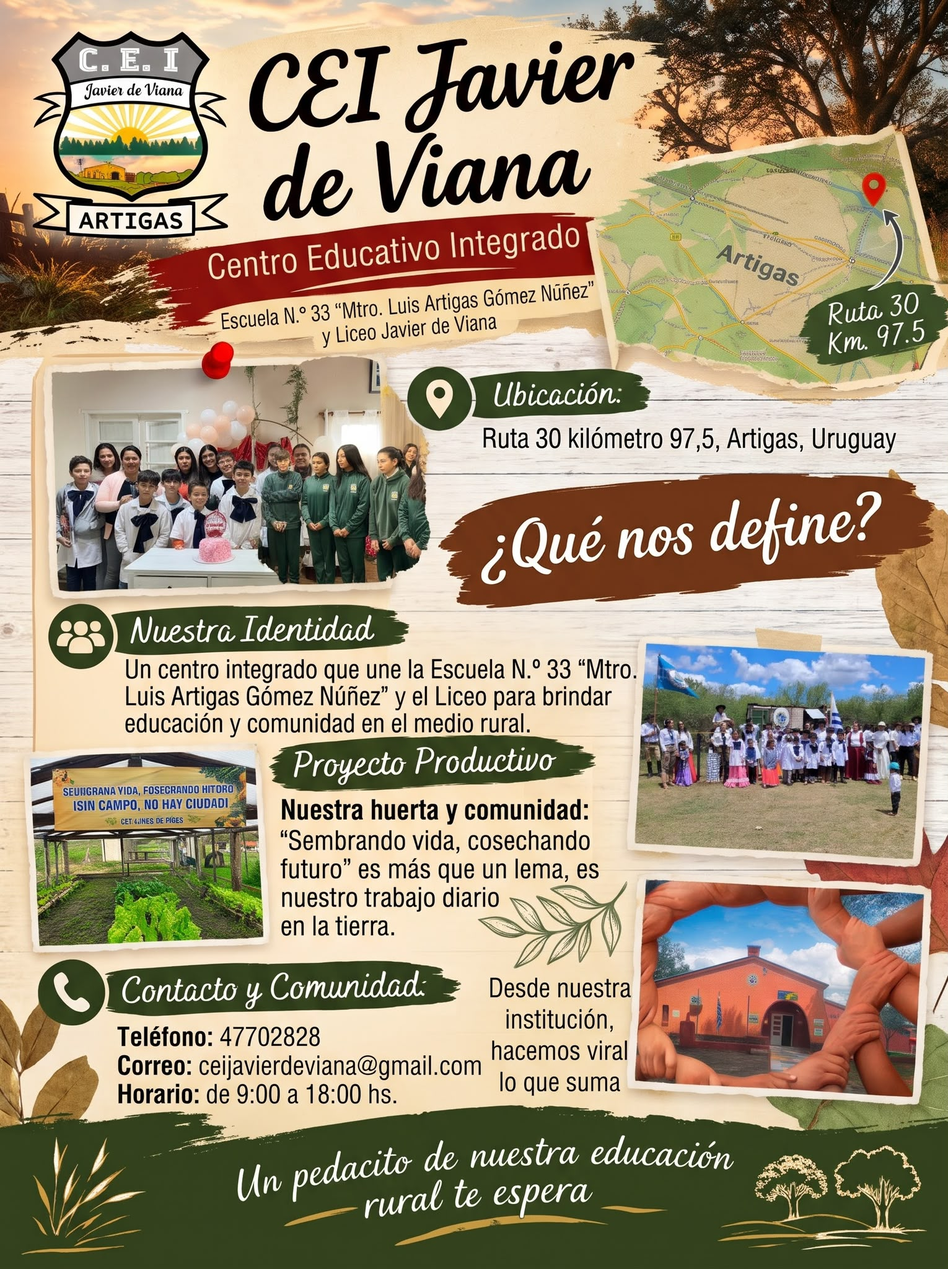
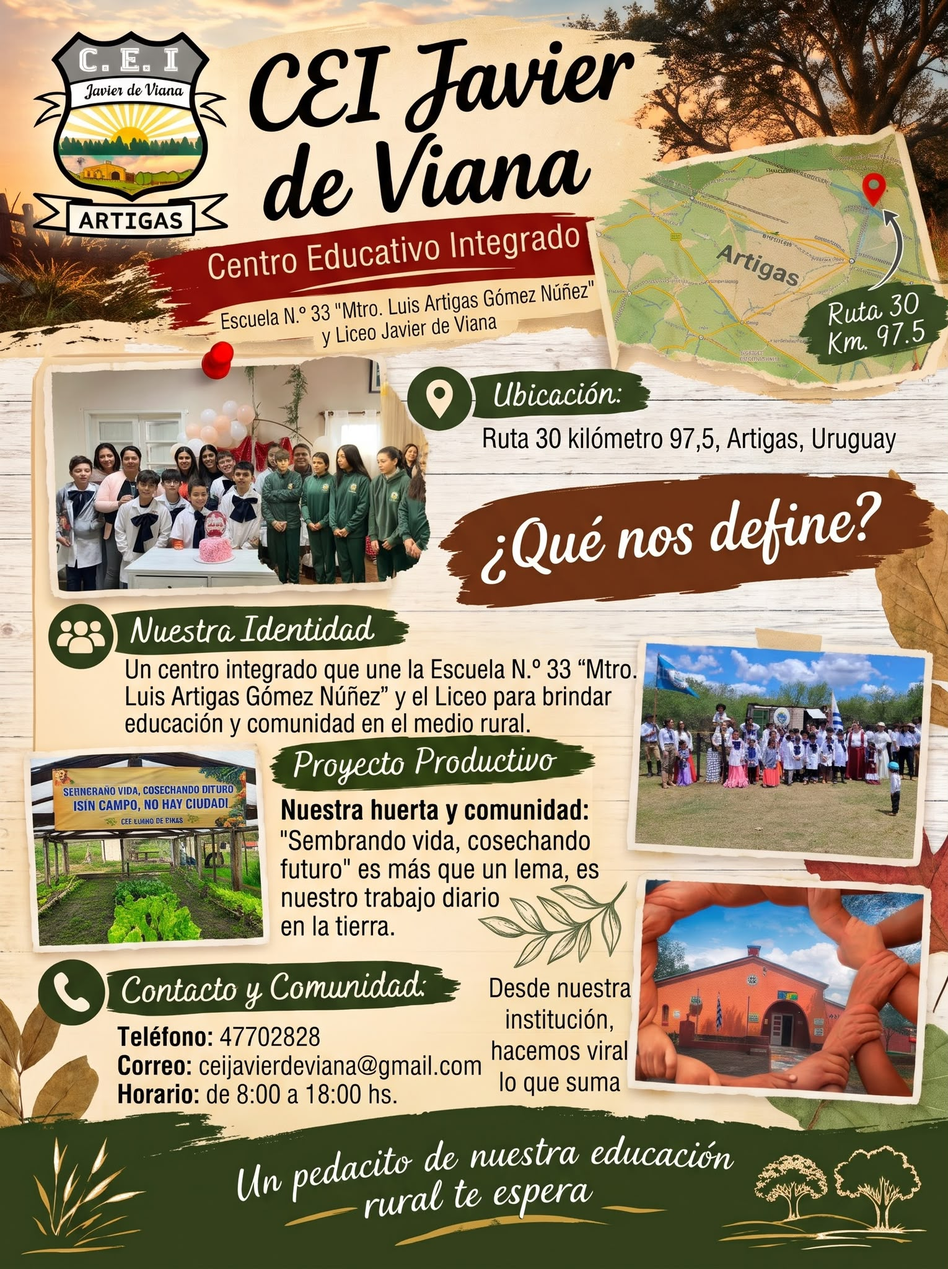
Nueva ficha del CEI y videos verticales juntos
Nueva ficha del CEI y videos verticales juntos

diff --git a/index.html b/index.html
@@ -260,12 +260,18 @@ body.on-detail .top{position:static;background:var(--hero-bg)}
 .credit{max-width:min(70ch,calc(100% - 32px));text-align:right;text-shadow:0 1px 4px rgba(0,0,0,.6)}
 .gallery figure{margin:0;display:grid;gap:6px;align-content:start}
 /* videos de YouTube: se ve la miniatura y el video recién carga al tocar */
-.videos{display:grid;gap:10px}
-.yt-list{display:flex;flex-wrap:wrap;gap:18px;align-items:flex-start}
-.yt{margin:0;display:grid;gap:8px;flex:1 1 400px;min-width:0}
-.yt-v{flex:0 1 250px}
+.videos{display:grid;gap:10px;container-type:inline-size}
+/* horizontales en una columna; verticales (Shorts) juntos, uno al lado del otro */
+.yt-grid{display:grid;gap:18px;align-items:start}
+.yt-col{display:grid;gap:18px;min-width:0}
+.yt-row{display:flex;gap:14px;justify-content:center}
+.yt{margin:0;display:grid;gap:8px;min-width:0;align-content:start}
+.yt-row .yt-v{flex:1 1 0;max-width:260px}
 .yt-v .yt-play,.yt.yt-v iframe{aspect-ratio:9/16}
-@media (max-width:640px){.yt-v{flex-basis:min(100%,280px);margin-inline:auto}}
+@container (min-width:700px){
+  .yt-grid.mix{grid-template-columns:minmax(0,1fr) auto}
+  .yt-grid.mix .yt-row .yt-v{flex:0 0 clamp(190px,28cqi,230px)}
+}
 .yt-play{position:relative;display:block;aspect-ratio:16/9;border-radius:14px;overflow:hidden;background:#140E1A;color:#fff;text-decoration:none}
 .yt-play img{display:block;width:100%;height:100%;object-fit:cover;transition:transform .5s ease}
 .yt-play:hover img,.yt-play:focus-visible img{transform:scale(1.03)}
@@ -1889,8 +1895,9 @@ function renderDetail(p) {
   const sections = p.body.map(b => `<section><h2>${esc(b.h)}</h2>${(b.p || []).map(t => `<p>${esc(t)}</p>`).join("")}${b.list ? `<ul>${b.list.map(t => `<li>${esc(t)}</li>`).join("")}</ul>` : ""}</section>`).join("");
   const main = p.photos[0];
   const gallery = p.photos.length > 1 ? `<section><h2>Galería</h2><div class="gallery">${p.photos.map((ph, k) => `<figure><button type="button" data-photo="${k}" aria-label="Ampliar: ${esc(ph.alt)}">${cover(p, k, "mini")}</button><figcaption>${esc(ph.alt)}</figcaption></figure>`).join("")}</div></section>` : "";
-  const vids = p.videos || [];
-  const videos = vids.length ? `<section class="videos"><h2>${vids.length > 1 ? "Videos" : "Video"}</h2><div class="yt-list">${vids.map(v => `<figure class="yt${v.vertical ? " yt-v" : ""}"><a class="yt-play" href="https://www.youtube.com/${v.vertical ? "shorts/" : "watch?v="}${esc(v.yt)}" target="_blank" rel="noopener" data-yt="${esc(v.yt)}" data-yt-title="${esc(v.title)}" aria-label="Reproducir el video «${esc(v.title)}»"><img src="https://i.ytimg.com/vi/${esc(v.yt)}/${v.vertical ? "oardefault" : "maxresdefault"}.jpg" alt="" loading="lazy" data-yt-thumb><span class="yt-btn" aria-hidden="true"><svg viewBox="0 0 24 24"><path d="M6 4l15 8-15 8z"/></svg></span><span class="yt-lab">Ver video</span></a><figcaption><b>${esc(v.title)}</b>${v.by ? ` · Video de ${esc(v.by)}` : ""} · YouTube</figcaption></figure>`).join("")}</div></section>` : "";
+  const vids = p.videos || [], land = vids.filter(v => !v.vertical), vert = vids.filter(v => v.vertical);
+  const ytFig = v => `<figure class="yt${v.vertical ? " yt-v" : ""}"><a class="yt-play" href="https://www.youtube.com/${v.vertical ? "shorts/" : "watch?v="}${esc(v.yt)}" target="_blank" rel="noopener" data-yt="${esc(v.yt)}" data-yt-title="${esc(v.title)}" aria-label="Reproducir el video «${esc(v.title)}»"><img src="https://i.ytimg.com/vi/${esc(v.yt)}/${v.vertical ? "oardefault" : "maxresdefault"}.jpg" alt="" loading="lazy" data-yt-thumb><span class="yt-btn" aria-hidden="true"><svg viewBox="0 0 24 24"><path d="M6 4l15 8-15 8z"/></svg></span><span class="yt-lab">Ver video</span></a><figcaption><b>${esc(v.title)}</b>${v.by ? ` · Video de ${esc(v.by)}` : ""} · YouTube</figcaption></figure>`;
+  const videos = vids.length ? `<section class="videos"><h2>${vids.length > 1 ? "Videos" : "Video"}</h2><div class="yt-grid${land.length && vert.length ? " mix" : ""}">${land.length ? `<div class="yt-col">${land.map(ytFig).join("")}</div>` : ""}${vert.length ? `<div class="yt-row">${vert.map(ytFig).join("")}</div>` : ""}</div></section>` : "";
   const photoCred = p.photos.length ? `<section class="photo-cred"><h2>Créditos de las fotos</h2><ul>${p.photos.map(ph => `<li><b>${esc(ph.alt)}</b>${creditLine(ph)}${/commons\.wikimedia/.test(ph.page || "") ? " · Wikimedia Commons" : ""}</li>`).join("")}</ul></section>` : "";
   return `<header class="d-cover cat-${p.cat}">
       <div class="d-cover-img">${cover(p)}</div><div class="d-cover-shade"></div>
